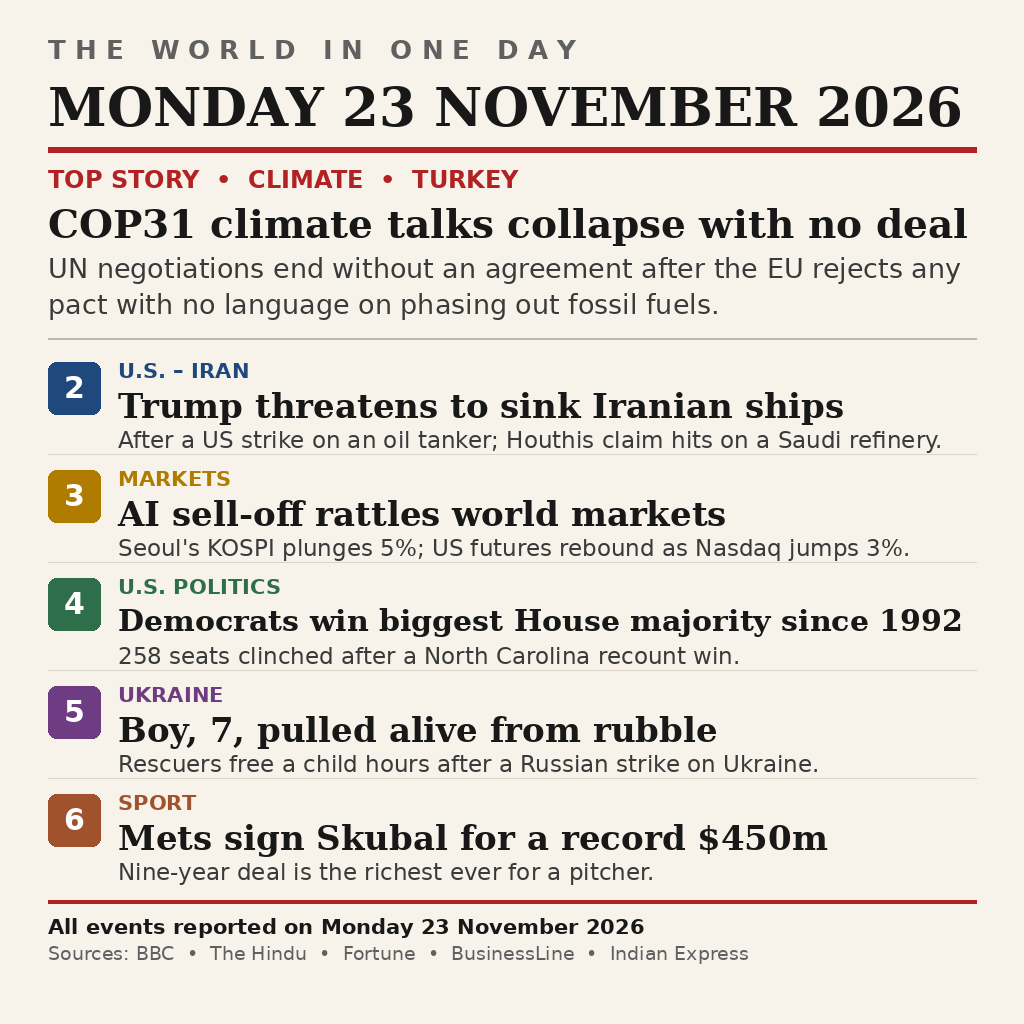
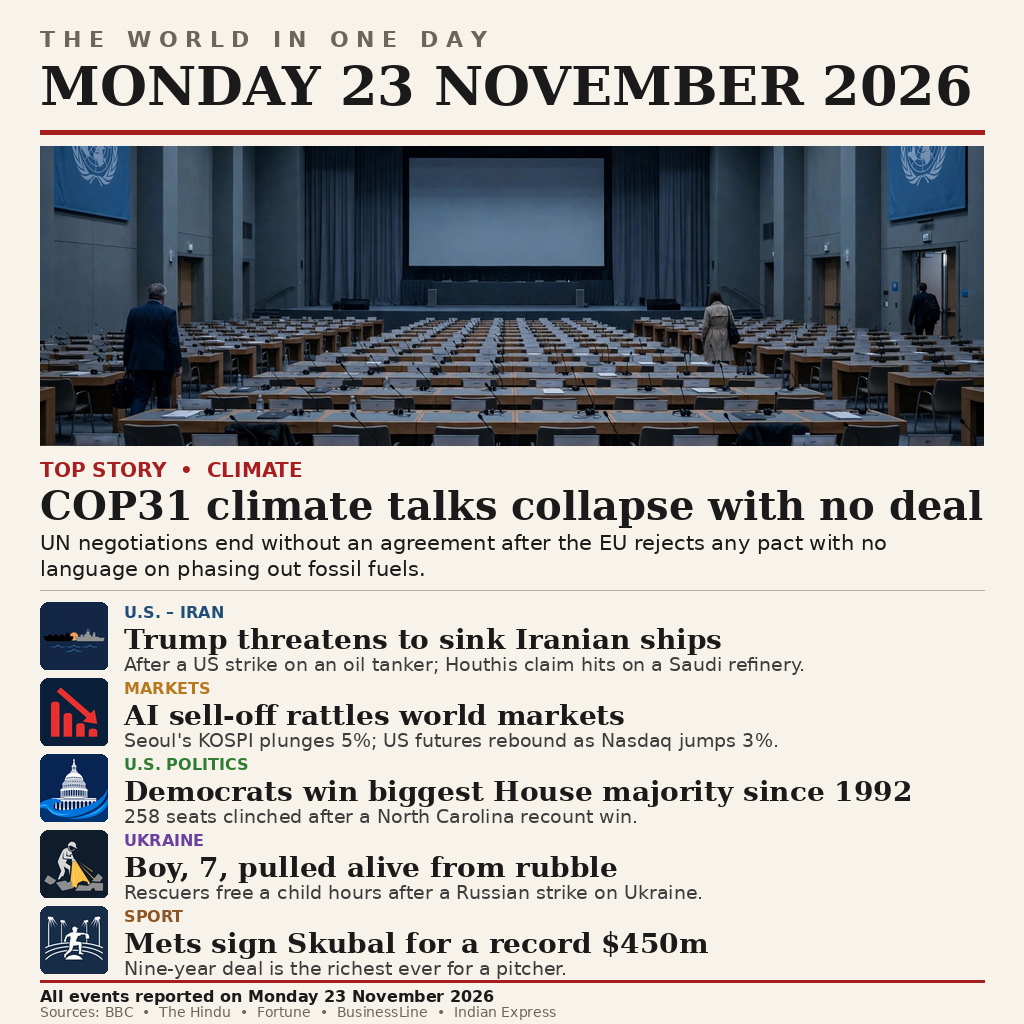
Add files via upload

diff --git a/main.ts b/main.ts
@@ -1,10 +1,12 @@
-// news-image-20261123: one image summing up the world news of
-// Monday 23 November 2026.
+// news-image-20261123 v2: one image summing up the world news of
+// Monday 23 November 2026, this time illustrated.
 //
 // The image itself (entry.png, 1024x1024) is a front page drawn in this
-// session: six verified stories of the day, with the date in the masthead.
-// This program only copies those exact bytes to the output path, so two
-// runs always produce the same file, with no network and no randomness.
+// session by build_entry.py: a photo of the empty COP31 hall as the top
+// story, then five stories each with its own picture, all six verified
+// against reporting of the day, with the date in the masthead. This
+// program only copies those exact bytes to the output path, so two runs
+// always produce the same file, with no network and no randomness.
 //
 // Usage:
 //   MAKEFUN_OUTPUT_DIR=out node main.ts        # writes out/entry.png

diff --git a/build_entry.py b/build_entry.py
@@ -1,0 +1,160 @@
+#!/usr/bin/env python3
+"""Build entry.png for news-image-20261123 v2: an illustrated front page.
+
+Layout (1024x1024, warm paper): masthead with the date, a wide photo of
+the empty COP31 hall as the top story, then five rows, each with a small
+illustrative picture, a kicker, a headline and one line. Every story is
+one of the six verified stories of Monday 23 November 2026; nothing here
+is invented. Deterministic: same inputs, same bytes, no network, no
+randomness, no timestamps in the PNG.
+"""
+import os
+from PIL import Image, ImageDraw, ImageFont
+
+HERE = os.path.dirname(os.path.abspath(__file__))
+ASSETS = os.path.join(HERE, "assets")
+
+W, H = 1024, 1024
+PAPER = (247, 243, 234)
+INK = (26, 26, 26)
+GREY = (107, 101, 90)
+RED = (166, 30, 30)
+RULE = (166, 30, 30)
+
+SERIF_B = "/usr/share/fonts/truetype/dejavu/DejaVuSerif-Bold.ttf"
+SERIF = "/usr/share/fonts/truetype/dejavu/DejaVuSerif.ttf"
+SANS_B = "/usr/share/fonts/truetype/dejavu/DejaVuSans-Bold.ttf"
+SANS = "/usr/share/fonts/truetype/dejavu/DejaVuSans.ttf"
+
+
+def font(path, size):
+    return ImageFont.truetype(path, size)
+
+
+def fit(draw, text, path, start, max_w):
+    """Largest font size at or below start whose text fits max_w."""
+    size = start
+    while size > 10:
+        f = font(path, size)
+        if draw.textlength(text, font=f) <= max_w:
+            return f
+        size -= 1
+    return font(path, 10)
+
+
+def wrap(draw, text, f, max_w):
+    """Greedy word wrap, returns a list of lines."""
+    lines, cur = [], ""
+    for word in text.split(" "):
+        trial = (cur + " " + word).strip()
+        if draw.textlength(trial, font=f) <= max_w:
+            cur = trial
+        else:
+            if cur:
+                lines.append(cur)
+            cur = word
+    if cur:
+        lines.append(cur)
+    return lines
+
+
+def thumb(path, size):
+    """Square thumbnail: centre-crop, resize, rounded corners."""
+    im = Image.open(path).convert("RGB")
+    w, h = im.size
+    side = min(w, h)
+    im = im.crop(((w - side) // 2, (h - side) // 2,
+                  (w - side) // 2 + side, (h - side) // 2 + side))
+    im = im.resize((size, size), Image.LANCZOS)
+    mask = Image.new("L", (size, size), 0)
+    ImageDraw.Draw(mask).rounded_rectangle([0, 0, size, size], radius=8, fill=255)
+    out = Image.new("RGB", (size, size), PAPER)
+    out.paste(im, (0, 0), mask)
+    return out
+
+
+def main():
+    page = Image.new("RGB", (W, H), PAPER)
+    d = ImageDraw.Draw(page)
+    M = 40                      # margin
+    CW = W - 2 * M              # content width: 944
+
+    # Masthead.
+    d.text((M, 26), "T H E   W O R L D   I N   O N E   D A Y",
+           font=font(SANS_B, 22), fill=GREY)
+    f_date = fit(d, "MONDAY 23 NOVEMBER 2026", SERIF_B, 60, CW)
+    d.text((M, 54), "MONDAY 23 NOVEMBER 2026", font=f_date, fill=INK)
+    d.rectangle([M, 130, W - M, 134], fill=RULE)
+
+    # Hero: the empty COP31 hall, cropped wide.
+    hero = Image.open(os.path.join(ASSETS, "hero.png")).convert("RGB")
+    hw, hh = hero.size
+    target_h = int(hw * 300 / CW)
+    top = (hh - target_h) // 2
+    hero = hero.crop((0, top, hw, top + target_h))
+    hero = hero.resize((CW, 300), Image.LANCZOS)
+    page.paste(hero, (M, 146))
+
+    # Top story caption.
+    d.text((M, 458), "TOP STORY  \u2022  CLIMATE",
+           font=font(SANS_B, 20), fill=RED)
+    f_head = fit(d, "COP31 climate talks collapse with no deal",
+                 SERIF_B, 44, CW)
+    d.text((M, 482), "COP31 climate talks collapse with no deal",
+           font=f_head, fill=INK)
+    f_deck = font(SANS, 21)
+    deck = ("UN negotiations end without an agreement after the EU rejects "
+            "any pact with no language on phasing out fossil fuels.")
+    lines = wrap(d, deck, f_deck, CW)
+    y = 530
+    for line in lines[:2]:
+        d.text((M, y), line, font=f_deck, fill=INK)
+        y += 26
+    d.line([M, 590, W - M, 590], fill=(180, 172, 158), width=1)
+
+    # Five stories, each with its own picture.
+    rows = [
+        ("iran.webp", "U.S. \u2013 IRAN", (31, 78, 121),
+         "Trump threatens to sink Iranian ships",
+         "After a US strike on an oil tanker; Houthis claim hits on a Saudi refinery."),
+        ("markets.webp", "MARKETS", (183, 121, 31),
+         "AI sell-off rattles world markets",
+         "Seoul's KOSPI plunges 5%; US futures rebound as Nasdaq jumps 3%."),
+        ("capitol.webp", "U.S. POLITICS", (46, 125, 50),
+         "Democrats win biggest House majority since 1992",
+         "258 seats clinched after a North Carolina recount win."),
+        ("rescue.webp", "UKRAINE", (106, 63, 160),
+         "Boy, 7, pulled alive from rubble",
+         "Rescuers free a child hours after a Russian strike on Ukraine."),
+        ("baseball.webp", "SPORT", (141, 85, 36),
+         "Mets sign Skubal for a record $450m",
+         "Nine-year deal is the richest ever for a pitcher."),
+    ]
+    y = 602
+    for name, kicker, colour, headline, sub in rows:
+        t = thumb(os.path.join(ASSETS, name), 68)
+        page.paste(t, (M, y))
+        tx = M + 84
+        tw = W - M - tx
+        d.text((tx, y + 1), kicker, font=font(SANS_B, 16), fill=colour)
+        f_h = fit(d, headline, SERIF_B, 28, tw)
+        d.text((tx, y + 20), headline, font=f_h, fill=INK)
+        f_s = fit(d, sub, SANS, 19, tw)
+        d.text((tx, y + 51), sub, font=f_s, fill=(60, 60, 60))
+        y += 76
+
+    # Footer.
+    d.rectangle([M, 980, W - M, 982], fill=RULE)
+    d.text((M, 987), "All events reported on Monday 23 November 2026",
+           font=font(SANS_B, 16), fill=INK)
+    d.text((M, 1004), "Sources: BBC  \u2022  The Hindu  \u2022  Fortune  \u2022  "
+                       "BusinessLine  \u2022  Indian Express",
+           font=font(SANS, 14), fill=GREY)
+
+    out = os.path.join(HERE, "entry.png")
+    page.save(out, format="PNG", optimize=True)
+    print(f"wrote {out} ({os.path.getsize(out)} bytes)")
+
+
+if __name__ == "__main__":
+    main()

diff --git a/README.md b/README.md
@@ -2,21 +2,30 @@
 [![rank](https://make.fun/badge/news-image-20261123/flytosky777/news-image/rank.svg)](https://make.fun/bounty/news-image-20261123)
 [![reward](https://make.fun/badge/news-image-20261123/flytosky777/news-image/reward.svg)](https://make.fun/bounty/news-image-20261123)
 
-# The World in One Day — Monday 23 November 2026
+# The World in One Day — Monday 23 November 2026 (v2, illustrated)
 
 A make.fun entry for
 [news-image-20261123](https://make.fun/bounty/news-image-20261123):
 one image that sums up the world's news of Monday 23 November 2026.
 
+## What changed from v1
+
+v1 was a text-only front page and ranked 5260/7226 in blind round 1.
+v2 keeps the same six verified stories and the same date, but every story
+now has a picture: the top story gets a wide photo of the empty COP31
+conference hall, and each of the other five gets its own small
+illustration, so a viewer who missed the day can tell what happened from
+the pictures and the short labels alone.
+
 ## The image
 
-`entry.png` (1024×1024, ~134 KB) is a front page drawn in this session
-with PIL: the date in the masthead, then six stories, each verified against
-reporting of the day:
+`entry.png` (1024×1024) is built in this session by `build_entry.py`
+(PIL): the date in the masthead, the COP31 photo, then five rows with
+pictures. The six stories, each verified against reporting of the day:
 
-1. **COP31 climate talks collapse with no deal** — UN negotiations in
-   Turkey end without an agreement after the EU rejects any pact with no
-   language on phasing out fossil fuels. (The Hindu, BBC)
+1. **COP31 climate talks collapse with no deal** — UN negotiations end
+   without an agreement after the EU rejects any pact with no language on
+   phasing out fossil fuels. (The Hindu, BBC)
 2. **Trump threatens to sink Iranian ships** — after a US strike on an oil
    tanker; Houthis claim hits on a Saudi refinery. (FeedCast, Indian Express)
 3. **AI sell-off rattles world markets** — Seoul's KOSPI plunges 5%; US
@@ -28,6 +37,9 @@ reporting of the day:
 6. **Mets sign Skubal for a record $450m** — a nine-year deal, the richest
    ever for a pitcher. (FeedCast)
 
+The pictures in `assets/` were generated in this session (the hero photo
+and five icons); `build_entry.py` composes them into `entry.png`.
+
 ## The program
 
 `main.ts` (Node 22, no dependencies) copies `entry.png` byte for byte to
@@ -36,6 +48,7 @@ checking it is a whole PNG inside the 1 MiB cap. No network, no randomness:
 two runs write identical bytes.
 
 ```sh
+python3 build_entry.py
 mkdir -p out && MAKEFUN_OUTPUT_DIR=out node main.ts
 ```
 
